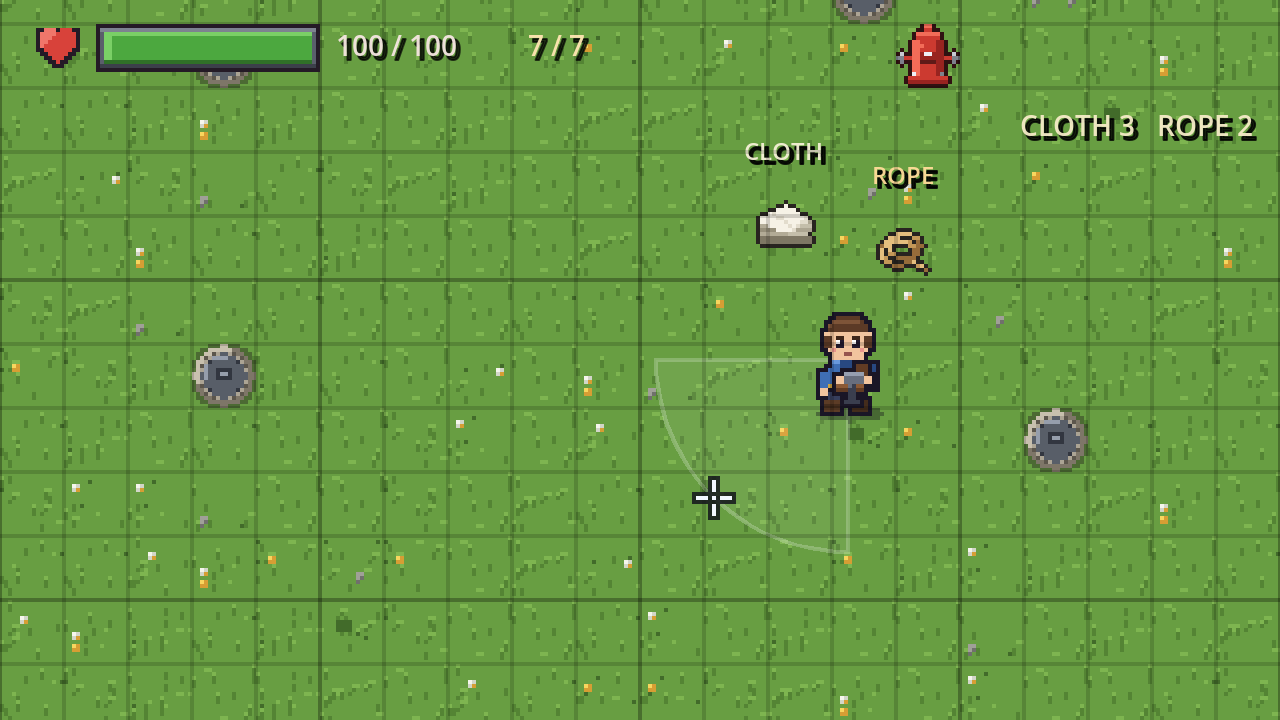
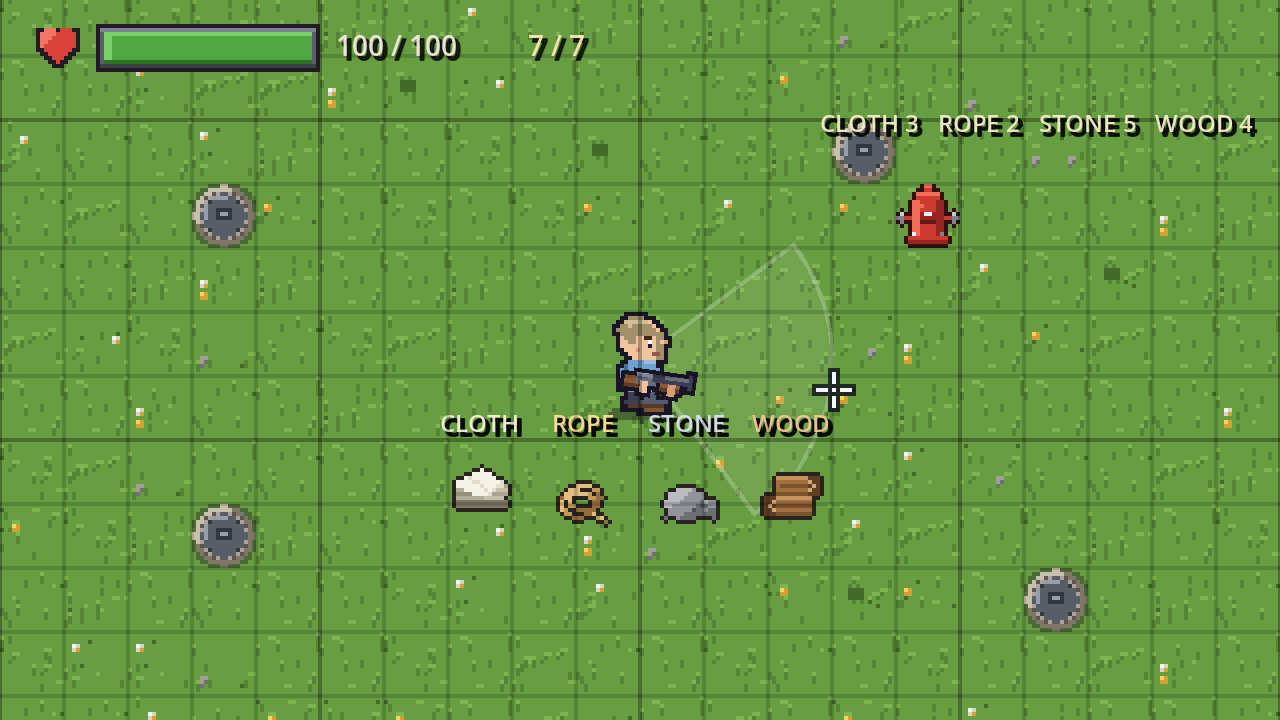
feat: 新增石头和木头两种资源（掉落物贴图/僵尸掉落/草地HUD/背包格子）

Changed region(s): [[0.0, 0.0, 1.0, 1.0]]

diff --git a/README.md b/README.md
@@ -106,7 +106,7 @@ C:\game\test
 │   ├─ make_concrete.lua      生成 16 块水泥瓦片（楼顶基地）
 │   ├─ make_furniture.lua     生成 4 件基地家具贴图
 │   ├─ make_benches.lua       生成三个工作台（工具/服装/木工，32×16）
-│   ├─ make_resources.lua     生成布料 / 绳子掉落物
+│   ├─ make_resources.lua     生成布料 / 绳子 / 石头 / 木头掉落物
 │   ├─ fix_legs.py            把角色表的腿加长一行、脚改小（靴子缩一行 + 削窄）
 │   ├─ make_hydrant.lua       生成消防栓（16×16）
 │   ├─ make_water.lua         生成水花 + 水洼动画帧
@@ -624,7 +624,8 @@ after 3.5s-> 0 只（确认不再刷）
   - **中间**：5×4 物品格子（图标 + 数量，选中黄框），左下角 `已用 / 总格数`
   - **右侧**：物品详情（大图标 + 名字 + 类型 + 描述 + `QTY n`）
   物品表在 `inventory_ui.gd` 的 `ITEMS` 里，数量读 `GameState`。
-- **击杀掉落**：普通僵尸死亡时独立判定 —— **25% 掉 1 个布料**、**10% 掉 1 个绳子**
+- **击杀掉落**：普通僵尸死亡时独立判定 —— **25% 掉 1 个布料**、**10% 掉 1 个绳子**、
+  **15% 掉 1 个石头**、**20% 掉 1 个木头**
   （`zombie.gd::_die()`，400 只实测 24.5% / 10.8%）。掉落物是 `scenes/pickup.tscn`（Area2D，
   上下轻浮、**画在血迹上面**（掉落物 `z_index = 3`，血迹是 2），头顶暂时显示物品名字 `CLOTH` / `ROPE`
   （以后换成图标就能删掉这个 Label）；玩家走过去自动捡起，数量存在 `GameState.cloth / rope`，
